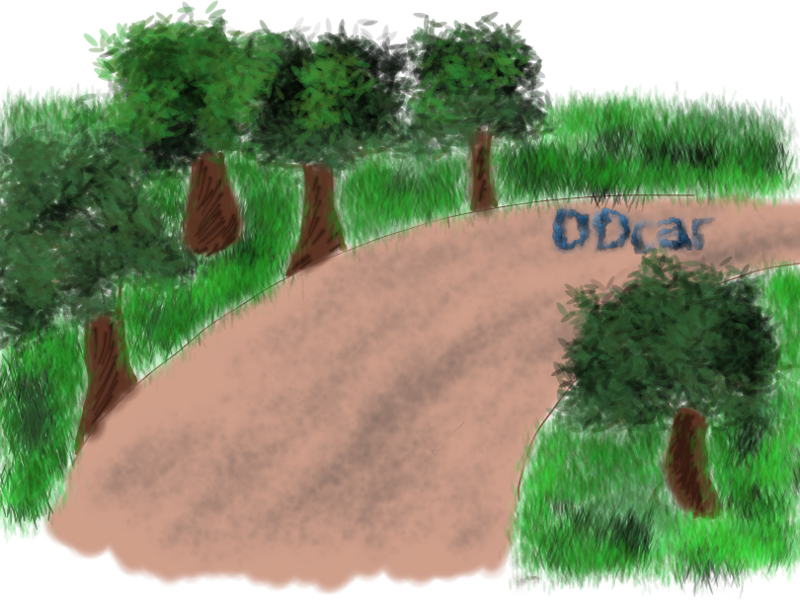
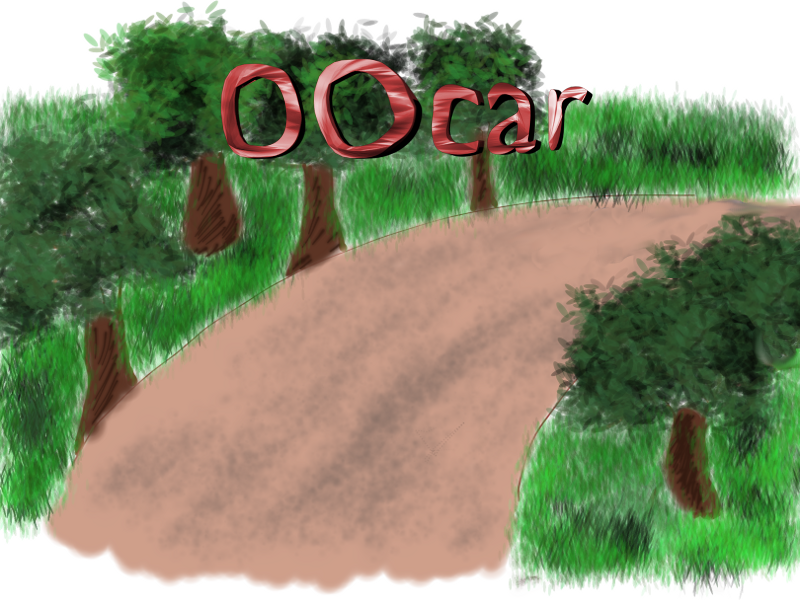
menu background

Changed region(s): [[0.25, 0.09, 0.75, 0.27], [0.6875, 0.33, 1.0, 0.63]]

diff --git a/menu.cpp b/menu.cpp
@@ -150,7 +150,7 @@ void Menu_El::show()
 	sf::String str_title;
 	str_title.SetText(title);
 	str_title.SetFont(*MyFont);
-	str_title.SetColor(sf::Color(180, 00, 190,255));
+	str_title.SetColor(sf::Color(94, 4, 36,255));
 	str_title.SetPosition(30, 250);
 	str_title.SetSize(60.f);
 	App->Draw(str_title);
@@ -158,13 +158,15 @@ void Menu_El::show()
     for (unsigned int i=0;i<entries.size();i++)
     {
         std::ostringstream oss_entry;
-        if ((signed)i==pos) oss_entry<<" => "; else oss_entry<<"  ";
+        if ((signed)i==pos) oss_entry<<"> "; else oss_entry<<"  ";
         oss_entry<<entries.at(i)->text;
+        if ((signed)i==pos) oss_entry<<" <"; else oss_entry<<"  ";
         //std::cout<<"Write entry: "<<oss_entry.str()<<std::endl;
         sf::String str_entry;
         str_entry.SetText(oss_entry.str());
         str_entry.SetFont(*MyFont);
-        str_entry.SetColor(sf::Color(200, 00, 10,255));
+        str_entry.SetColor(sf::Color(94, 4, 36,255));
+        if ((signed)i==pos) str_entry.SetColor(sf::Color(94, 4, 66,255));
         str_entry.SetPosition(250, 320+i*60);
         str_entry.SetSize(50.f);
         App->Draw(str_entry);
